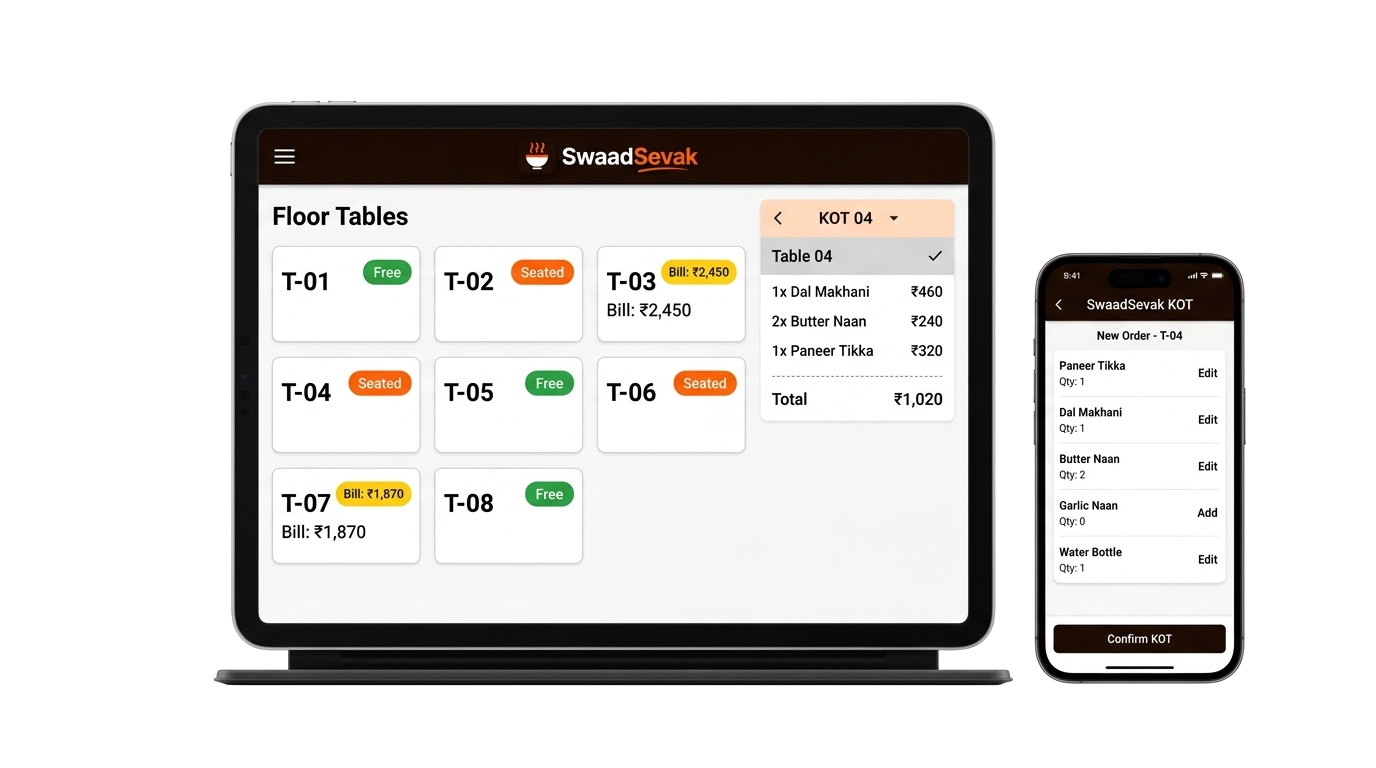
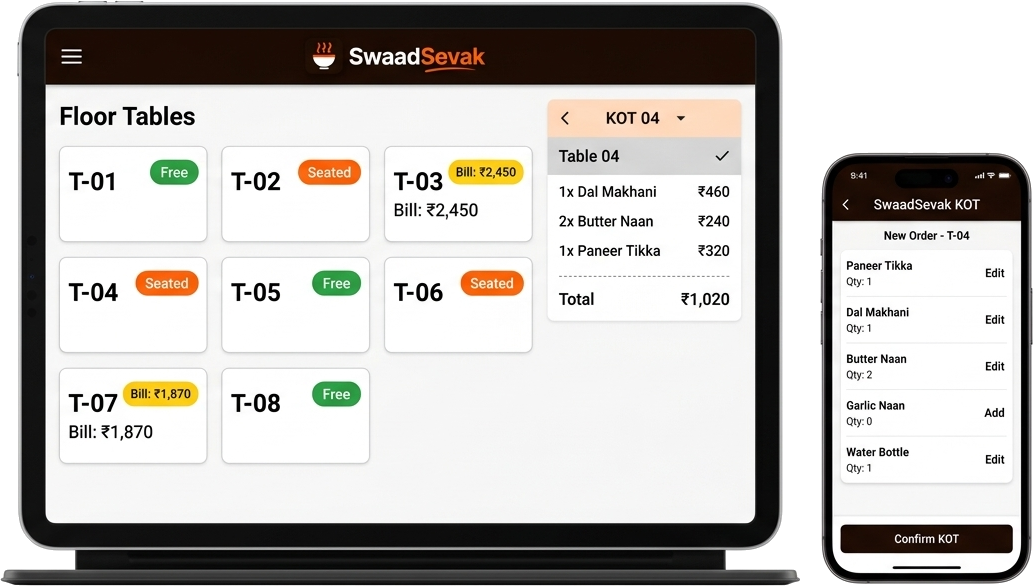
feat(pos): crop transparent padding and expand tablet & mobile mockup scale to 1300px

diff --git a/client/src/components/sections/ProductTabsSection.tsx b/client/src/components/sections/ProductTabsSection.tsx
@@ -127,7 +127,7 @@ export const ProductTabsSection: React.FC = () => {
         </div>
 
         {/* Dynamic Interactive Mockup with Smooth Crossfade */}
-        <div className="max-w-5xl mx-auto">
+        <div className="max-w-[1400px] mx-auto w-full">
           <AnimatePresence mode="wait">
             <motion.div
               key={currentTab.id}
@@ -135,7 +135,7 @@ export const ProductTabsSection: React.FC = () => {
               animate={{ opacity: 1, scale: 1 }}
               exit={{ opacity: 0, scale: 0.98 }}
               transition={{ duration: 0.25 }}
-              className="flex justify-center items-center"
+              className="flex justify-center items-center w-full"
             >
               {activeTab === 'pos' && <TableViewMockup />}
               {activeTab === 'online' && <LiveOrderFeedMockup />}

diff --git a/client/src/components/mockups/TableViewMockup.tsx b/client/src/components/mockups/TableViewMockup.tsx
@@ -2,11 +2,11 @@ import React from 'react';
 
 export const TableViewMockup: React.FC = () => {
   return (
-    <div className="relative w-full max-w-[1050px] mx-auto flex items-center justify-center select-none py-4">
+    <div className="relative w-full max-w-[1300px] mx-auto flex items-center justify-center select-none py-2 sm:py-6">
       <img
         src="/brand/pos-tablet-mobile-transparent.png"
         alt="SwaadSevak POS Table View Tablet and Mobile Waiter App"
-        className="w-full h-auto object-contain drop-shadow-[0_20px_45px_rgba(43,26,18,0.18)]"
+        className="w-full h-auto object-contain drop-shadow-[0_25px_50px_rgba(43,26,18,0.22)]"
       />
     </div>
   );
